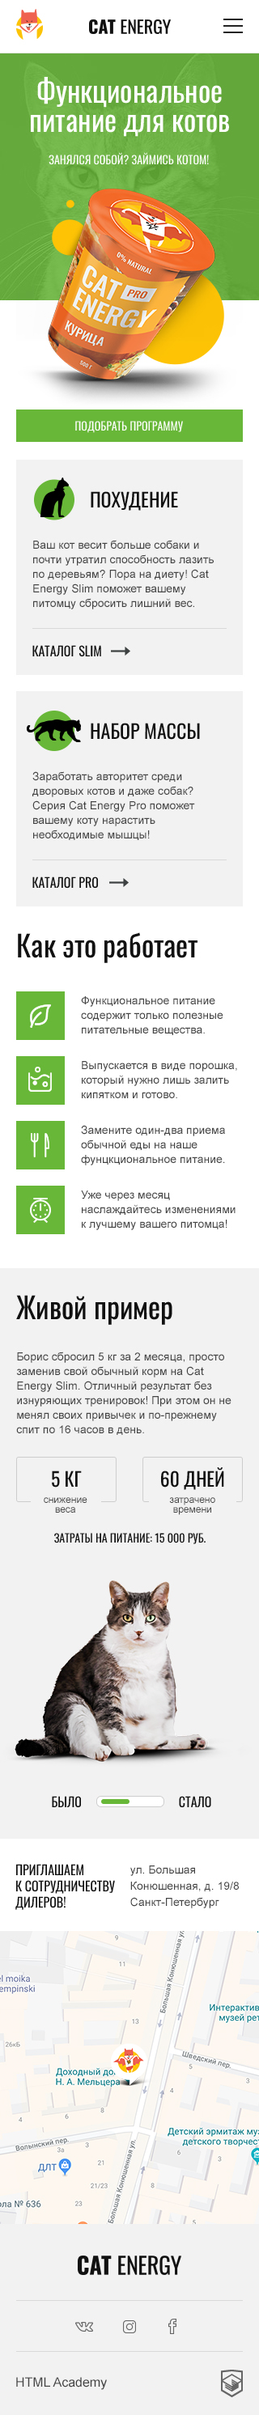
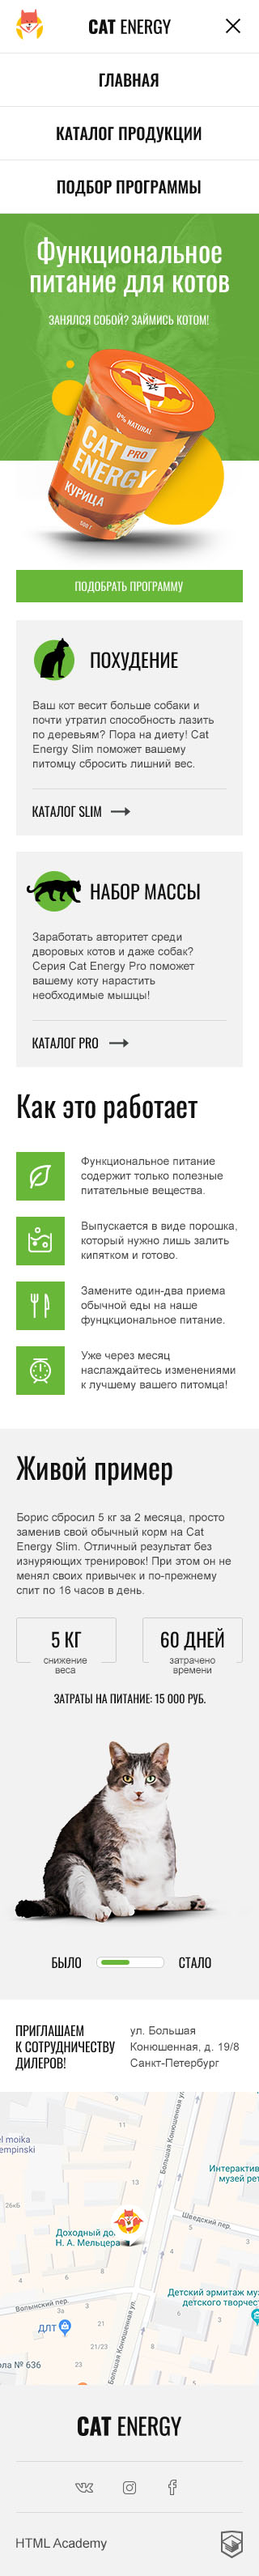
added previews to background

diff --git a/source/sass/global/_base.scss b/source/sass/global/_base.scss
@@ -14,11 +14,12 @@ html {
   font-size: 62.5%; // 10px
 }
 /* oswald-regular - latin_cyrillic */
+
 @font-face {
   font-family: "Oswald";
   font-style: normal;
   font-weight: 400;
-  src: local("Oswald Regular"), local("Oswald-Regular"), url("../fonts/oswald-v16-latin_cyrillic-regular.woff2") format("woff2"), /* Chrome 26+, Opera 23+, Firefox 39+ */ url("../fonts/oswald-v16-latin_cyrillic-regular.woff") format("woff"))
+  src: local("Oswald Regular"), local("Oswald-Regular"), url("../fonts/oswald-v16-latin_cyrillic-regular.woff2") format("woff2"), url("../fonts/oswald-v16-latin_cyrillic-regular.woff") format("woff")
   /* Chrome 6+, Firefox 3.6+, IE 9+, Safari 5.1+ */
 }
 /* oswald-500 - latin_cyrillic */
@@ -26,16 +27,30 @@ html {
   font-family: "Oswald";
   font-style: normal;
   font-weight: 500;
-  src: local("Oswald Medium"), local("Oswald-Medium"), url("../fonts/oswald-v16-latin_cyrillic-500.woff2") format("woff2"), /* Chrome 26+, Opera 23+, Firefox 39+ */ url("../fonts/oswald-v16-latin_cyrillic-500.woff") format("woff"))
-  /* Chrome 6+, Firefox 3.6+, IE 9+, Safari 5.1+ */
+  src: local("Oswald Medium"), local("Oswald-Medium"), url("../fonts/oswald-v16-latin_cyrillic-500.woff2") format("woff2"), url("../fonts/oswald-v16-latin_cyrillic-500.woff") format("woff")
 }
+
 
 body {
   font-family: "Oswald", sans-serif;
   font-weight: 400;
   font-size: 1.4rem;
   line-height: 1.8rem;
+  background: url("../img/cat-energy-index-mobile.jpg") no-repeat 50% 0;
+
+  @media(min-width: $tablet-width) {
+    background: url("../img/cat-energy-index-tablet.jpg") no-repeat 50% 0;
+  }
+
+  @media(min-width: $desktop-width) {
+    background: url("../img/cat-energy-index-desktop.jpg") no-repeat 50% 0;
+  }
 }
+
+
+
+
+
 
 .visually-hidden:not(:focus):not(:active),
 input[type="checkbox"].visually-hidden,

diff --git a/source/sass/blocks/_site-list.scss b/source/sass/blocks/_site-list.scss
@@ -13,10 +13,12 @@
 }
 
 .site-list__item {
+  font-size: 2rem;
+  line-height: 2rem;
   font-weight: 500;
   text-transform: uppercase;
   text-align: center;
-  padding: 2.4rem;
+  padding: 2rem;
   border-bottom: 1px solid $color-line-light;
 
   //&--active {}

diff --git a/source/sass/global/_variables.scss b/source/sass/global/_variables.scss
@@ -12,3 +12,7 @@ $color-black: #111111;
 $color-line-light: #e6e6e6;
 $color-line-medium: #d9d9d9;
 $color-line-dark: #cfcfcf;
+
+// MEDIA
+$tablet-width: 768px;
+$desktop-width: 1200px;

diff --git a/source/sass/style.scss b/source/sass/style.scss
@@ -31,4 +31,3 @@
 @import "blocks/slider.scss";
 @import "blocks/social.scss";
 @import "blocks/supplies.scss";
-@import "blocks/visually-hidden.scss";
